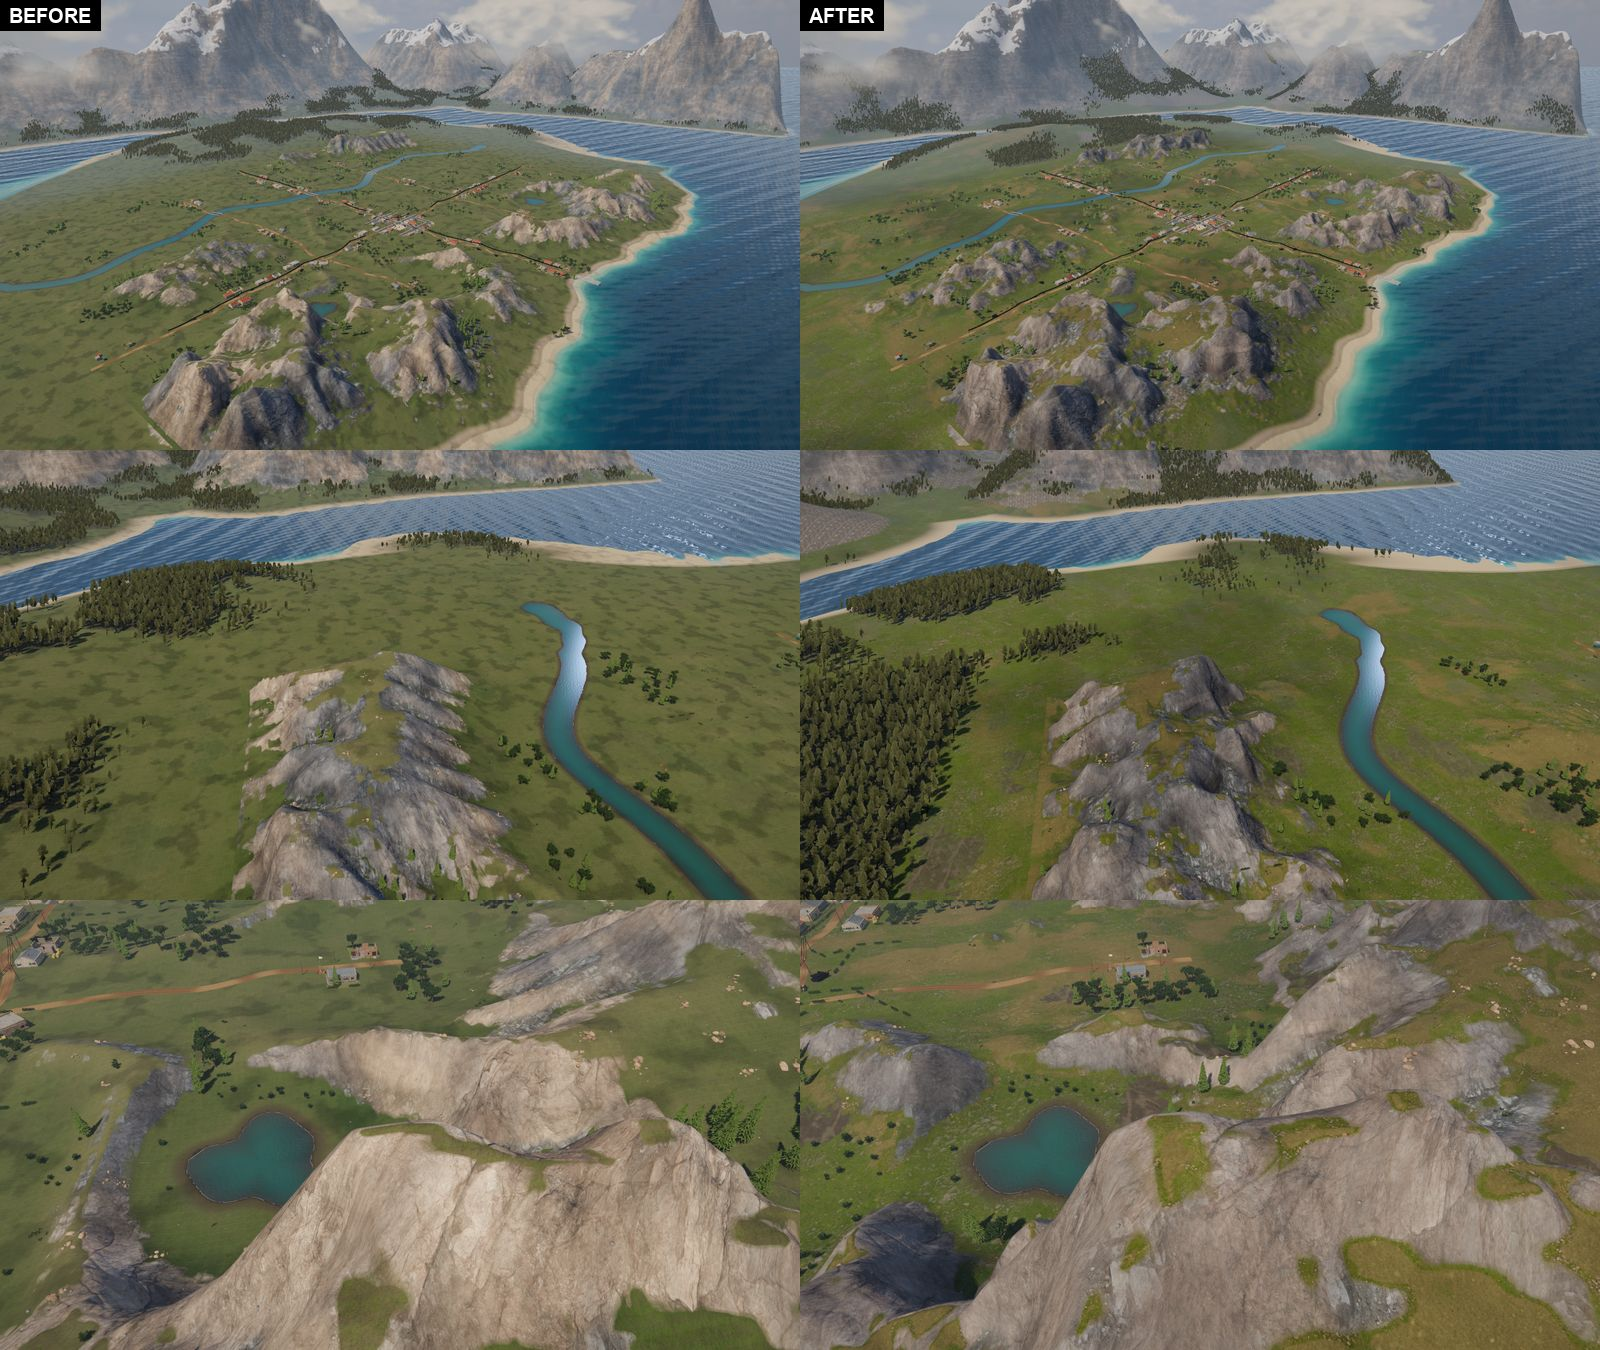
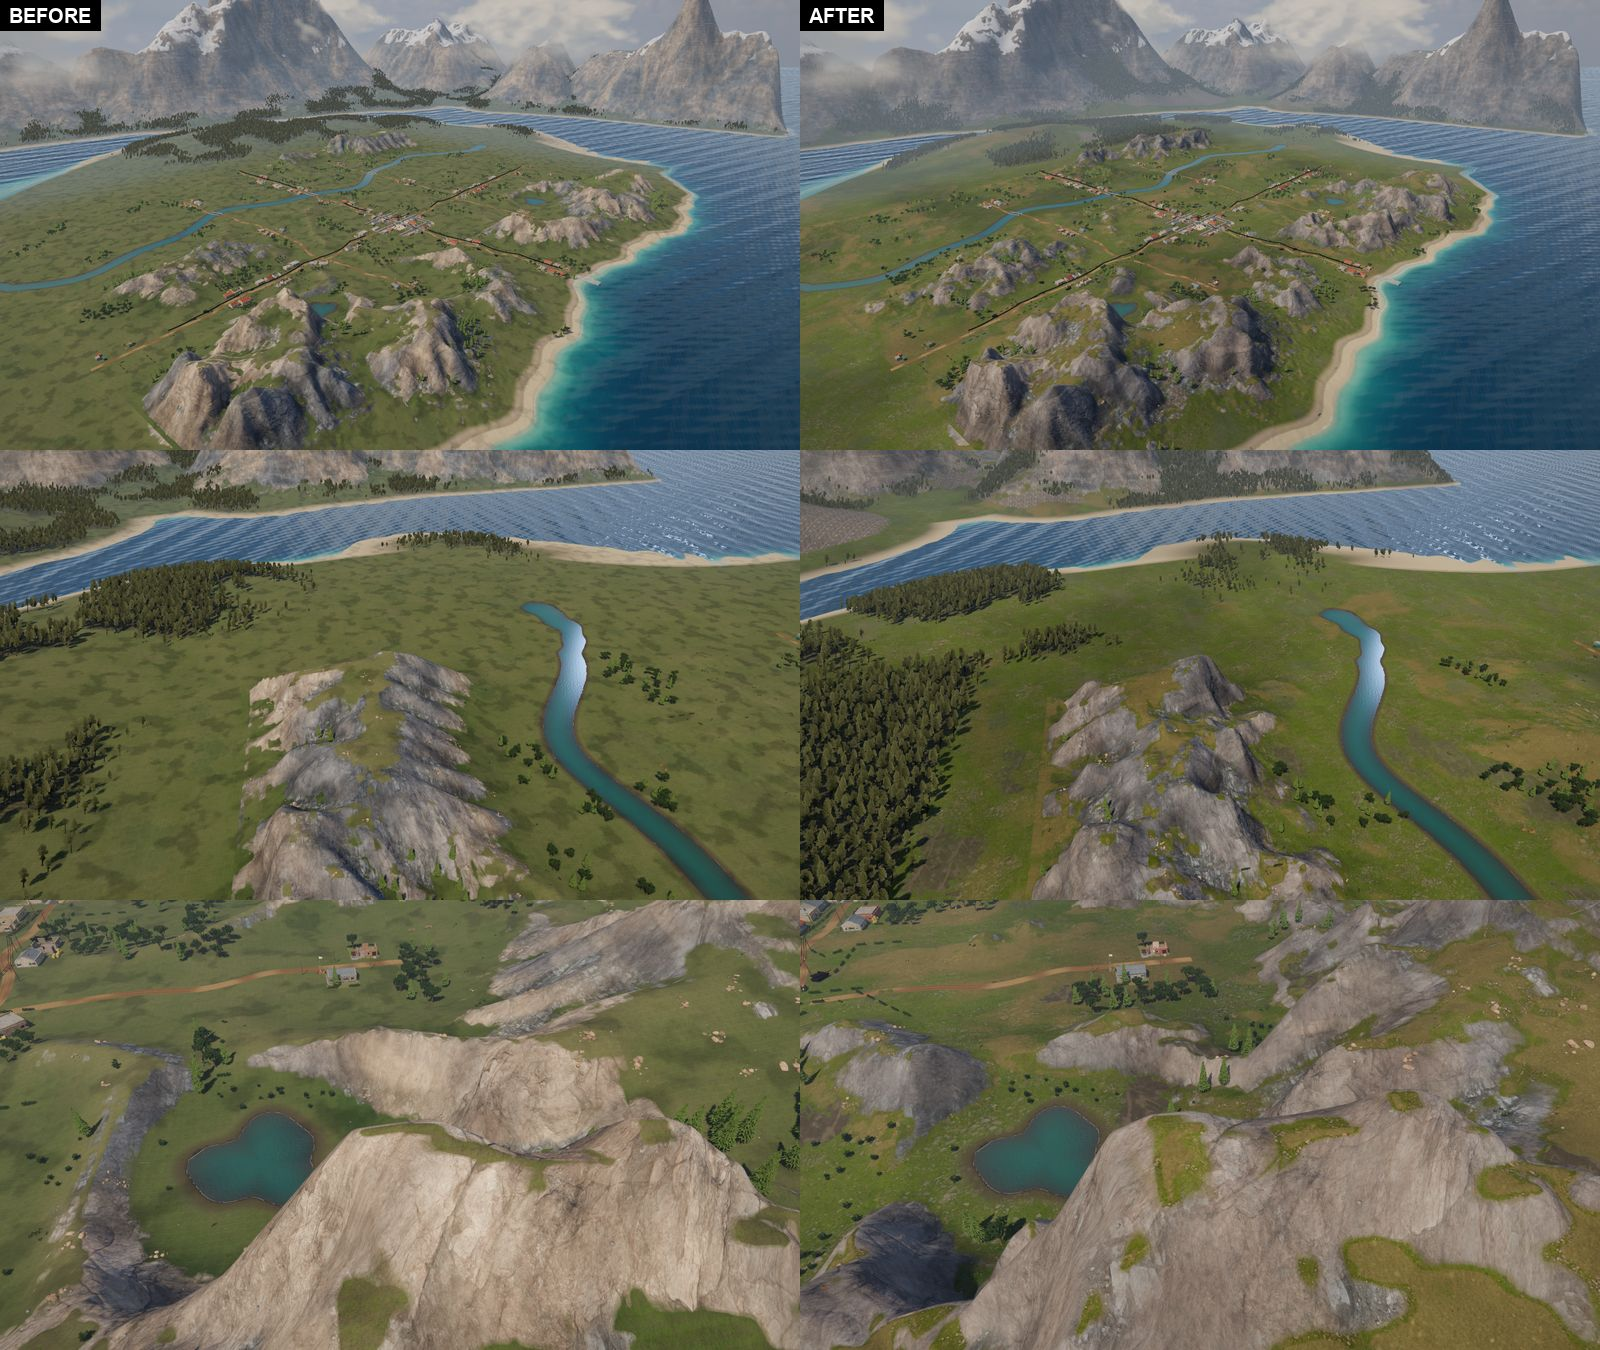
Haze the distant woods and thin the turf on rock ledges
Far stands were dark tree cards on ground that the ground shader had already
faded into aerial haze, so every stand read as a stipple along the far
shore. The forest shader now applies the same optical depth and air colour
(passed through from the ground's haze and mood settings).

Ledges and benches on a crag (steep over twenty metres, flatter locally)
now carry thin stony turf from the grassland survey instead of bright lawn.

diff --git a/changelog/unreleased/rolling-valleys-and-meadows.md b/changelog/unreleased/rolling-valleys-and-meadows.md
@@ -13,5 +13,5 @@ caption = "The same views before and after (seed 3, day): the whole valley, a hi
 - **Meadows follow the land.** Grass stays lush in hollows, along drainage lines and beside rivers and ponds, and dries to straw on crests and slopes facing the sun. Pastures differ from one field to the next, and the grass tufts grow thicker and greener on damp ground.
 - **Stony ground** lies between meadow and crag on hill shoulders, pale talus gathers at the foot of the crags, and rock seen close up keeps its cracks and grain. The muddy patches that slow men down now look like dark rutted soil.
 - **Cloud shadows** are cloud-sized now, drifting slowly over the ground, grass and bushes, instead of small dark blotches that spotted every field.
-- **Distant woods** grow in broad, ragged stands that climb the mountain gullies, instead of thin stripes along the far slopes.
+- **Distant woods** grow in broad, ragged stands that climb the mountain gullies and fade into the haze with the slopes they stand on, instead of dark stripes along the far shore.
 - Mission maps keep their terrain exactly as before.
